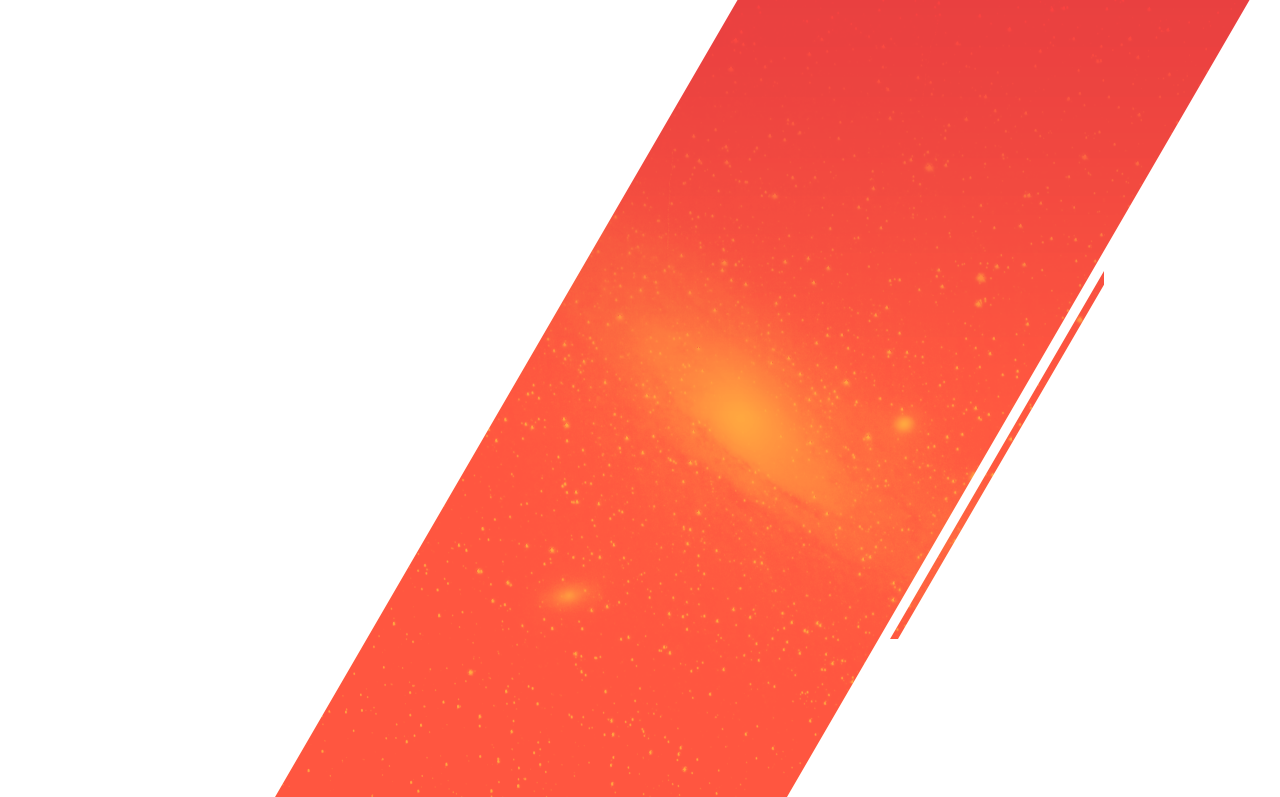
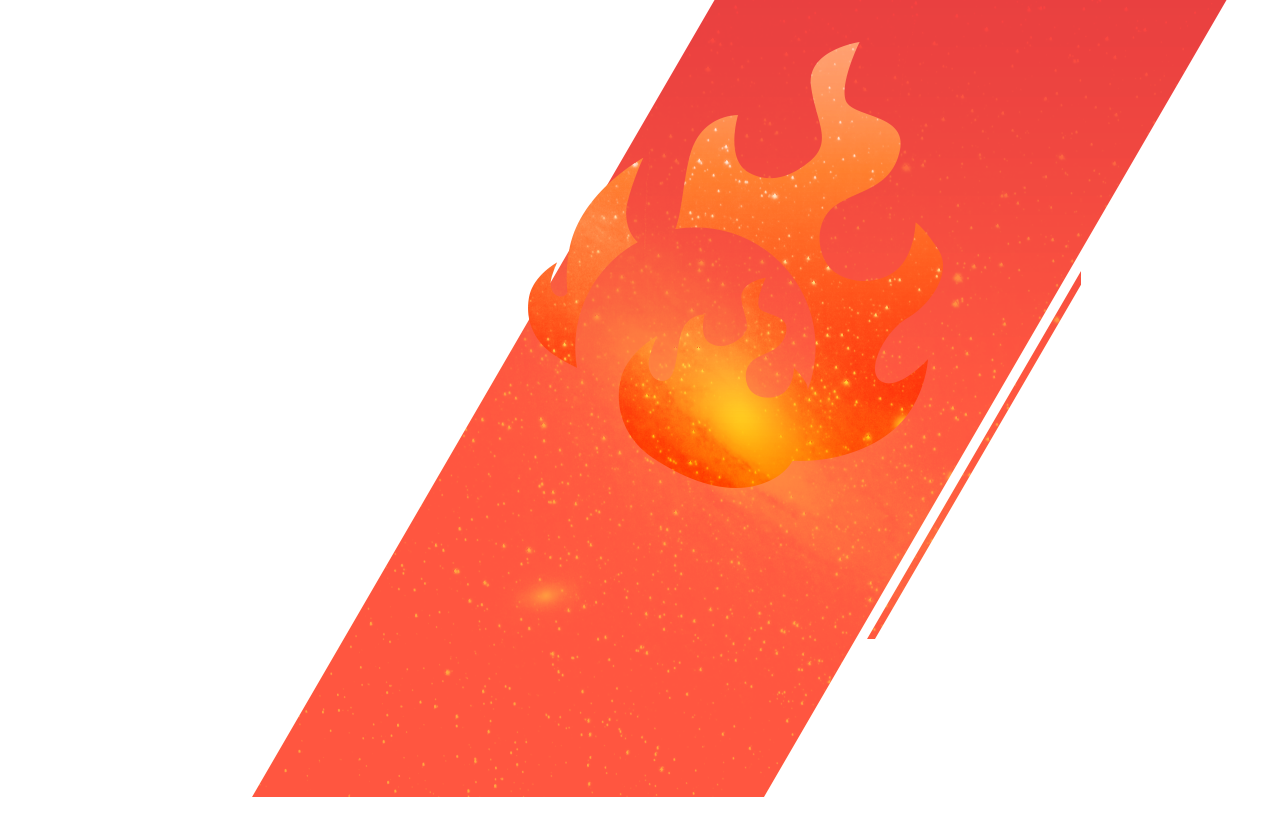
Merged some layers in cover

Changed region(s): [[0.1875, 0.0, 0.9688, 1.0], [0.4062, 0.7227, 0.4688, 0.7528]]

diff --git a/css/app.css b/css/app.css
@@ -1,1 +1,1 @@
-.clearfix{*zoom:1}.clearfix:before,.clearfix:after{display:table;content:"";line-height:0}.clearfix:after{clear:both}.hide-text{font:0/0 a;color:transparent;text-shadow:none;background-color:transparent;border:0}.input-block-level{display:block;width:100%;min-height:30px;-webkit-box-sizing:border-box;-moz-box-sizing:border-box;box-sizing:border-box}body{font-size:16px;min-height:2000px;background:#f9f9f9}.touch #cover{background-attachment:scroll}.touch #cover>div{background-attachment:scroll!important}.touch #desc{background-attachment:scroll}.touch #wheres{background-attachment:scroll}#cover{background:url(../img/mask_slant.png) 0 0 repeat,url(../img/cover.jpg) 50% 0 no-repeat fixed;-webkit-background-size:5px 5px,cover;-moz-background-size:5px 5px,cover;-o-background-size:5px 5px,cover;background-size:5px 5px,cover;height:814px;overflow:hidden;position:relative}#cover>div{width:100%;height:100%;position:absolute;left:0;top:0}#cover #cover-desc{color:white;z-index:150;top:auto;bottom:32px;height:82px;-webkit-background-size:contain;-moz-background-size:contain;-o-background-size:contain;background-size:contain;width:100%}#cover #cover-desc em{font-style:normal;display:block;max-width:680px;font-size:18px;margin:0 auto;line-height:26px}#cover #cover-txt{background:url(../img/cover_txt.png) 50% 0 no-repeat fixed;-webkit-background-size:auto 100%;-moz-background-size:auto 100%;-o-background-size:auto 100%;background-size:auto 100%;z-index:140}#cover #cover-bk{background:url(../img/cover_bk.png) 50% 0 no-repeat fixed;-webkit-background-size:auto 100%;-moz-background-size:auto 100%;-o-background-size:auto 100%;background-size:auto 100%;z-index:120}#cover #cover-bk1{background:url(../img/cover_bk1.png) 50% 0 no-repeat fixed;-webkit-background-size:auto 100%;-moz-background-size:auto 100%;-o-background-size:auto 100%;background-size:auto 100%;z-index:130}#cover #cover-bk2{background:url(../img/cover_bk2.png) 50% 0 no-repeat fixed;-webkit-background-size:auto 100%;-moz-background-size:auto 100%;-o-background-size:auto 100%;background-size:auto 100%;z-index:100}#reg{margin-left:12px}#reg a{color:white;background:#f26522;-webkit-border-radius:4px;-moz-border-radius:4px;border-radius:4px;text-shadow:none}.clear{clear:both;float:none}#menu{height:100px;position:relative;z-index:999}#menu .affix{background:rgba(255,255,255,0.95);z-index:999}#whats{margin:0 0 32px 0}#whats p{font-size:14px}#whats .whats_img{text-align:center;margin-top:64px}#whats .whats_present,#whats .whats_judge{padding:12px}#whats h4{color:#f26522}#whats .whats-judge a:after{content:"[+] "}#whats .whats-judge a.active:after{content:"[-] "}#faqs{display:none}#faqs h4{color:white;background:#f26522;padding:6px 8px;position:relative;font-size:16px;font-weight:normal;margin:0 0 12px 32px}#faqs .faq{margin:0 0 32px 0}#faqs .faq .faq_q{position:relative}#faqs .faq .faq_q:before{position:absolute;content:"Q: ";color:#f26522;font-size:18px;left:-25px;width:12px;height:18px}#faqs .faq .faq_a{padding-left:26px}#faqs .faq .faq_a:before{content:"A: ";font-size:18px;color:#f26522;margin-left:-16px}#wheres{background:url(../img/where_bg.jpg) 50% 0 no-repeat fixed;-webkit-background-size:cover;-moz-background-size:cover;-o-background-size:cover;background-size:cover}#wheres .where-txt{position:relative;background:rgba(1,29,71,0.7);padding:28px;color:white}#wheres .where-txt h2{color:white}#wheres .where-date{position:absolute;padding:0 4px;top:12px;right:-12px;height:54px;background:#f26522}#wheres .where-date h4{margin:0;line-height:54px}#wheres .where-date:before{content:"";width:26px;height:54px;background:url(../img/where_flag.png) 0 0 no-repeat;-webkit-background-size:52px 54px;-moz-background-size:52px 54px;-o-background-size:52px 54px;background-size:52px 54px;position:absolute;left:-26px;top:0}#wheres .where-date:after{content:"";width:26px;height:54px;background:url(../img/where_flag.png) -26px 0 no-repeat;-webkit-background-size:52px 54px;-moz-background-size:52px 54px;-o-background-size:52px 54px;background-size:52px 54px;position:absolute;right:-26px;top:0}#main-container{position:relative;z-index:800}#main-container section .container{padding-top:100px}#schedule{background:url(../img/wall_bg.jpg) 0 0 repeat scroll;-webkit-background-size:50px 50px;-moz-background-size:50px 50px;-o-background-size:50px 50px;background-size:50px 50px;padding-bottom:32px;color:white}#schedule h1{color:white}#schedule .schedule-block{position:relative;padding:6px 12px}#schedule h4{display:inline}#schedule a{color:white;text-decoration:underline}#schedule .flag{display:inline;padding:3px;font-size:13px;background:white;color:#f26522;margin:6px}.touch #follow{display:none}#follow{position:fixed;width:28px;padding:8px 8px 0 8px;bottom:48px;right:0;-webkit-border-radius:4px 0 0 4px;-moz-border-radius:4px 0 0 4px;border-radius:4px 0 0 4px;border:1px solid #cf3600;background:rgba(242,101,34,0.85);z-index:1000}#follow a{position:relative;display:block;margin-bottom:16px;background:url(../img/follow_icons.png) 0 0 no-repeat;width:28px;height:28px;text-align:center;color:white;font-weight:bold;text-decoration:none;word-spacing:9px;font-size:20px}#follow a.facebook{background-position:0 -56px}#follow a.twitter{background-position:0 -28px}#follow .tooltip{min-width:198px;font-size:14px}#sponsors{background:url(../img/grid.png) 0 0 repeat scroll;background-size:310px 310px;padding-bottom:64px;text-shadow:0 1px 0 #FFF;border-top:1px solid #777;border-bottom:1px solid #999;-webkit-box-shadow:inset 0 1px 0 #fff;-moz-box-shadow:inset 0 1px 0 #fff;box-shadow:inset 0 1px 0 #fff}#sponsors a{font-weight:bold}#organizers{padding-bottom:32px;position:relative}#organizers .orgs{max-width:200px;margin:0 auto 32px auto;position:relative}#organizers .orgs .orgs-pic{position:relative;margin:0 auto 12px;max-width:270px;z-index:1;overflow:hidden}#organizers .orgs span{text-align:center;display:block;font-size:16px;font-weight:bold;color:#f26522}footer{min-height:80px;background:#666;padding-top:32px}footer #share{padding:8px;-webkit-border-radius:4px;-moz-border-radius:4px;border-radius:4px;background:#ccc;float:right}footer #share div{float:left}footer .brand{display:block;float:left;background:url(../img/footer_logo.png) 0 0 no-repeat;-webkit-background-size:contain;-moz-background-size:contain;-o-background-size:contain;background-size:contain;padding:0;margin:0 0 0 28px;height:50px;overflow:hidden}p{line-height:22px;margin-bottom:22px}h1{color:#f26522;font-size:46px;font-weight:normal;margin:0 0 32px 0}h2{font-size:22px;font-weight:normal;margin:0;color:#666}.navbar .nav>.active>a,.navbar .nav>.active>a:hover,.navbar .nav>.active>a:focus{color:#f26522;background:0;-webkit-box-shadow:none;-moz-box-shadow:none;box-shadow:none}#desc{background:url(../img/cover2.jpg) 50% 0 no-repeat fixed;-webkit-background-size:cover;-moz-background-size:cover;-o-background-size:cover;background-size:cover;margin-top:-28px}#desc .desc-inner{padding:26px;background:rgba(1,29,71,0.8);color:white;margin-bottom:12px}nav{width:100%;height:100px;background:#fff;position:relative;top:0;left:0;padding:6px 0 0 0;z-index:999}nav .lang{display:none}nav .navbar{margin-top:22px}nav .navbar .navbar-inner{padding:0;margin:0;border:0;outline:0;-webkit-box-shadow:none;-moz-box-shadow:none;box-shadow:none;background:0}nav .navbar .nav{float:right}nav .navbar .nav li a{text-transform:upper;font-size:14px;font-weight:bold}nav .navbar .brand{background:url(../img/logo.png) 0 0 no-repeat;-webkit-background-size:158px 50px;-moz-background-size:158px 50px;-o-background-size:158px 50px;background-size:158px 50px;padding:0;margin:0 0 0 28px;height:50px;overflow:hidden}nav:after{content:"";width:100%;height:30px;background:url(../img/nav_bg.png) 50% 100% no-repeat;position:absolute;bottom:-30px}@media(min-width:768px) and (max-width:979px){nav .navbar .nav li a{font-size:14px}}@media(max-width:980px){#schedule h4{display:block}#schedule .flag{display:block;margin:0 0 6px 0}nav{height:auto;padding:12px 0}nav .navbar{margin:0}nav .navbar .nav{float:none;margin:0 12px}nav .lang{display:block}footer .brand img{width:120px;height:auto}}@media(max-width:767px){body{padding-left:0;padding-right:0}h1{font-size:32px}h2{font-size:18px}nav .navbar .nav li a{font-size:13px}#main-container>section{padding-left:20px;padding-right:20px;padding-bottom:52px}#main-container>section .container{padding-top:26px}#whats .whats_img{display:none}#wheres .where-date{display:none}footer{display:none}}@media(max-width:640px){#cover{display:none}}@media only screen and (-moz-min-device-pixel-ratio:2),only screen and (-o-min-device-pixel-ratio:2/1),only screen and (-webkit-min-device-pixel-ratio:2),only screen and (min-device-pixel-ratio:2){nav .navbar .brand{background-image:url(../img/logo@2x.png)}#schedule{background-image:url(../img/wall_bg@2x.jpg)}}
+.clearfix{*zoom:1}.clearfix:before,.clearfix:after{display:table;content:"";line-height:0}.clearfix:after{clear:both}.hide-text{font:0/0 a;color:transparent;text-shadow:none;background-color:transparent;border:0}.input-block-level{display:block;width:100%;min-height:30px;-webkit-box-sizing:border-box;-moz-box-sizing:border-box;box-sizing:border-box}body{font-size:16px;min-height:2000px;background:#f9f9f9}.touch #cover{background-attachment:scroll}.touch #cover>div{background-attachment:scroll!important;overflow:hidden}.touch #desc{background-attachment:scroll}.touch #wheres{background-attachment:scroll}#cover{background:url(../img/mask_slant.png) 0 0 repeat,url(../img/cover.jpg) 50% 0 no-repeat fixed;-webkit-background-size:5px 5px,cover;-moz-background-size:5px 5px,cover;-o-background-size:5px 5px,cover;background-size:5px 5px,cover;height:814px;overflow:hidden;position:relative}#cover>div{width:100%;height:100%;position:absolute;left:0;top:0}#cover #cover-desc{color:white;z-index:150;top:auto;bottom:32px;height:82px;-webkit-background-size:contain;-moz-background-size:contain;-o-background-size:contain;background-size:contain;width:100%}#cover #cover-desc em{font-style:normal;display:block;max-width:680px;font-size:18px;margin:0 auto;line-height:26px}#cover #cover-txt{background:url(../img/cover_txt.png) 50% 0 no-repeat fixed;-webkit-background-size:auto 100%;-moz-background-size:auto 100%;-o-background-size:auto 100%;background-size:auto 100%;z-index:140}#cover #cover-bk1{background:url(../img/cover_bk1.png) 50% 0 no-repeat fixed;-webkit-background-size:auto 100%;-moz-background-size:auto 100%;-o-background-size:auto 100%;background-size:auto 100%;z-index:130}#cover #cover-bk2{background:url(../img/cover_bk2.png) 50% 0 no-repeat fixed;-webkit-background-size:auto 100%;-moz-background-size:auto 100%;-o-background-size:auto 100%;background-size:auto 100%;z-index:100}#reg{margin-left:12px}#reg a{color:white;background:#f26522;-webkit-border-radius:4px;-moz-border-radius:4px;border-radius:4px;text-shadow:none}.clear{clear:both;float:none}#menu{height:100px;position:relative;z-index:999}#menu .affix{background:rgba(255,255,255,0.95);z-index:999}#whats{margin:0 0 32px 0}#whats p{font-size:14px}#whats .whats_img{text-align:center;margin-top:64px}#whats .whats_present,#whats .whats_judge{padding:12px}#whats h4{color:#f26522}#whats .whats-judge a:after{content:"[+] "}#whats .whats-judge a.active:after{content:"[-] "}#faqs{display:none}#faqs h4{color:white;background:#f26522;padding:6px 8px;position:relative;font-size:16px;font-weight:normal;margin:0 0 12px 32px}#faqs .faq{margin:0 0 32px 0}#faqs .faq .faq_q{position:relative}#faqs .faq .faq_q:before{position:absolute;content:"Q: ";color:#f26522;font-size:18px;left:-25px;width:12px;height:18px}#faqs .faq .faq_a{padding-left:26px}#faqs .faq .faq_a:before{content:"A: ";font-size:18px;color:#f26522;margin-left:-16px}#wheres{background:url(../img/where_bg.jpg) 50% 0 no-repeat fixed;-webkit-background-size:cover;-moz-background-size:cover;-o-background-size:cover;background-size:cover}#wheres .where-txt{position:relative;background:rgba(1,29,71,0.7);padding:28px;color:white}#wheres .where-txt h2{color:white}#wheres .where-date{position:absolute;padding:0 4px;top:12px;right:-12px;height:54px;background:#f26522}#wheres .where-date h4{margin:0;line-height:54px}#wheres .where-date:before{content:"";width:26px;height:54px;background:url(../img/where_flag.png) 0 0 no-repeat;-webkit-background-size:52px 54px;-moz-background-size:52px 54px;-o-background-size:52px 54px;background-size:52px 54px;position:absolute;left:-26px;top:0}#wheres .where-date:after{content:"";width:26px;height:54px;background:url(../img/where_flag.png) -26px 0 no-repeat;-webkit-background-size:52px 54px;-moz-background-size:52px 54px;-o-background-size:52px 54px;background-size:52px 54px;position:absolute;right:-26px;top:0}#main-container{position:relative;z-index:800}#main-container section .container{padding-top:100px}#schedule{background:url(../img/wall_bg.jpg) 0 0 repeat scroll;-webkit-background-size:50px 50px;-moz-background-size:50px 50px;-o-background-size:50px 50px;background-size:50px 50px;padding-bottom:32px;color:white}#schedule h1{color:white}#schedule .schedule-block{position:relative;padding:6px 12px}#schedule h4{display:inline}#schedule a{color:white;text-decoration:underline}#schedule .flag{display:inline;padding:3px;font-size:13px;background:white;color:#f26522;margin:6px}.touch #follow{display:none}#follow{position:fixed;width:28px;padding:8px 8px 0 8px;bottom:48px;right:0;-webkit-border-radius:4px 0 0 4px;-moz-border-radius:4px 0 0 4px;border-radius:4px 0 0 4px;border:1px solid #cf3600;background:rgba(242,101,34,0.85);z-index:1000}#follow a{position:relative;display:block;margin-bottom:16px;background:url(../img/follow_icons.png) 0 0 no-repeat;width:28px;height:28px;text-align:center;color:white;font-weight:bold;text-decoration:none;word-spacing:9px;font-size:20px}#follow a.facebook{background-position:0 -56px}#follow a.twitter{background-position:0 -28px}#follow .tooltip{min-width:198px;font-size:14px}#sponsors{background:url(../img/grid.png) 0 0 repeat scroll;background-size:310px 310px;padding-bottom:64px;text-shadow:0 1px 0 #FFF;border-top:1px solid #777;border-bottom:1px solid #999;-webkit-box-shadow:inset 0 1px 0 #fff;-moz-box-shadow:inset 0 1px 0 #fff;box-shadow:inset 0 1px 0 #fff}#sponsors a{font-weight:bold}#organizers{padding-bottom:32px;position:relative}#organizers .orgs{max-width:200px;margin:0 auto 32px auto;position:relative}#organizers .orgs .orgs-pic{position:relative;margin:0 auto 12px;max-width:270px;z-index:1;overflow:hidden}#organizers .orgs span{text-align:center;display:block;font-size:16px;font-weight:bold;color:#f26522}footer{min-height:80px;background:#666;padding-top:32px}footer #share{padding:8px;-webkit-border-radius:4px;-moz-border-radius:4px;border-radius:4px;background:#ccc;float:right}footer #share div{float:left}footer .brand{display:block;float:left;background:url(../img/footer_logo.png) 0 0 no-repeat;-webkit-background-size:contain;-moz-background-size:contain;-o-background-size:contain;background-size:contain;padding:0;margin:0 0 0 28px;height:50px;overflow:hidden}p{line-height:22px;margin-bottom:22px}h1{color:#f26522;font-size:46px;font-weight:normal;margin:0 0 32px 0}h2{font-size:22px;font-weight:normal;margin:0;color:#666}.navbar .nav>.active>a,.navbar .nav>.active>a:hover,.navbar .nav>.active>a:focus{color:#f26522;background:0;-webkit-box-shadow:none;-moz-box-shadow:none;box-shadow:none}#desc{background:url(../img/cover2.jpg) 50% 0 no-repeat fixed;-webkit-background-size:cover;-moz-background-size:cover;-o-background-size:cover;background-size:cover;margin-top:-28px}#desc .desc-inner{padding:26px;background:rgba(1,29,71,0.8);color:white;margin-bottom:12px}nav{width:100%;height:100px;background:#fff;position:relative;top:0;left:0;padding:6px 0 0 0;z-index:999}nav .lang{display:none}nav .navbar{margin-top:22px}nav .navbar .navbar-inner{padding:0;margin:0;border:0;outline:0;-webkit-box-shadow:none;-moz-box-shadow:none;box-shadow:none;background:0}nav .navbar .nav{float:right}nav .navbar .nav li a{text-transform:upper;font-size:14px;font-weight:bold}nav .navbar .brand{background:url(../img/logo.png) 0 0 no-repeat;-webkit-background-size:158px 50px;-moz-background-size:158px 50px;-o-background-size:158px 50px;background-size:158px 50px;padding:0;margin:0 0 0 28px;height:50px;overflow:hidden}nav:after{content:"";width:100%;height:30px;background:url(../img/nav_bg.png) 50% 100% no-repeat;position:absolute;bottom:-30px}@media(min-width:768px) and (max-width:979px){nav .navbar .nav li a{font-size:14px}}@media(max-width:980px){#schedule h4{display:block}#schedule .flag{display:block;margin:0 0 6px 0}nav{height:auto;padding:12px 0}nav .navbar{margin:0}nav .navbar .nav{float:none;margin:0 12px}nav .lang{display:block}footer .brand img{width:120px;height:auto}}@media(max-width:767px){body{padding-left:0;padding-right:0}h1{font-size:32px}h2{font-size:18px}nav .navbar .nav li a{font-size:13px}#main-container>section{padding-left:20px;padding-right:20px;padding-bottom:52px}#main-container>section .container{padding-top:26px}#whats .whats_img{display:none}#wheres .where-date{display:none}footer{display:none}}@media(max-width:640px){#cover{display:none}}@media only screen and (-moz-min-device-pixel-ratio:2),only screen and (-o-min-device-pixel-ratio:2/1),only screen and (-webkit-min-device-pixel-ratio:2),only screen and (min-device-pixel-ratio:2){nav .navbar .brand{background-image:url(../img/logo@2x.png)}#schedule{background-image:url(../img/wall_bg@2x.jpg)}}

diff --git a/js/main.js b/js/main.js
@@ -34,8 +34,6 @@ function scrollHandle() {
 	if(scrollTop < windowHeight) {
 		$("#cover-txt").css("background-position", "50% -" + Math.round(scrollTop / 1.3) + "px");
 		//.css("transform", "scale(" + ((100 - (scrollTop/12)) * 0.01) + ")").css("opacity", (100 - (scrollTop/4)) * 0.01);
-		$("#cover-bk").css("background-position", "50% -" + Math.round(scrollTop / 4) + "px");
-		//.css("transform", "scale(" + ((100 - (scrollTop/16)) * 0.01) + ")").css("opacity", (100 - (scrollTop/4)) * 0.01);
 		$("#cover-bk1").css("background-position", "50% -" + Math.round(scrollTop / 2) + "px");
 		$("#cover-bk2").css("background-position", "50% -" + Math.round(scrollTop / 5) + "px");
 		$("#cover").css("background-position", "50% -" + Math.round(scrollTop / 12) + "px");

diff --git a/less/app.less b/less/app.less
@@ -24,6 +24,7 @@ body {
 		background-attachment: scroll;
 		&>div {
 			background-attachment: scroll!important;
+			overflow: hidden;
 		}
 	}
 	#desc {
@@ -69,11 +70,6 @@ body {
 		background: url(../img/cover_txt.png) 50% 0 no-repeat fixed;
 		.background-size(auto 100%);
 		z-index: 140;
-	}
-	#cover-bk {
-		background: url(../img/cover_bk.png) 50% 0 no-repeat fixed;
-		.background-size(auto 100%);
-		z-index: 120;
 	}
 
 	#cover-bk1 {

diff --git a/index.html b/index.html
@@ -39,7 +39,6 @@
                     </em>
                 </div>
                 <div id="cover-txt"><!--Empty--></div>
-                <div id="cover-bk"><!--Empty--></div>
                 <div id="cover-bk1"><!--Empty--></div>
                 <div id="cover-bk2"><!--Empty--></div>
              </section>
